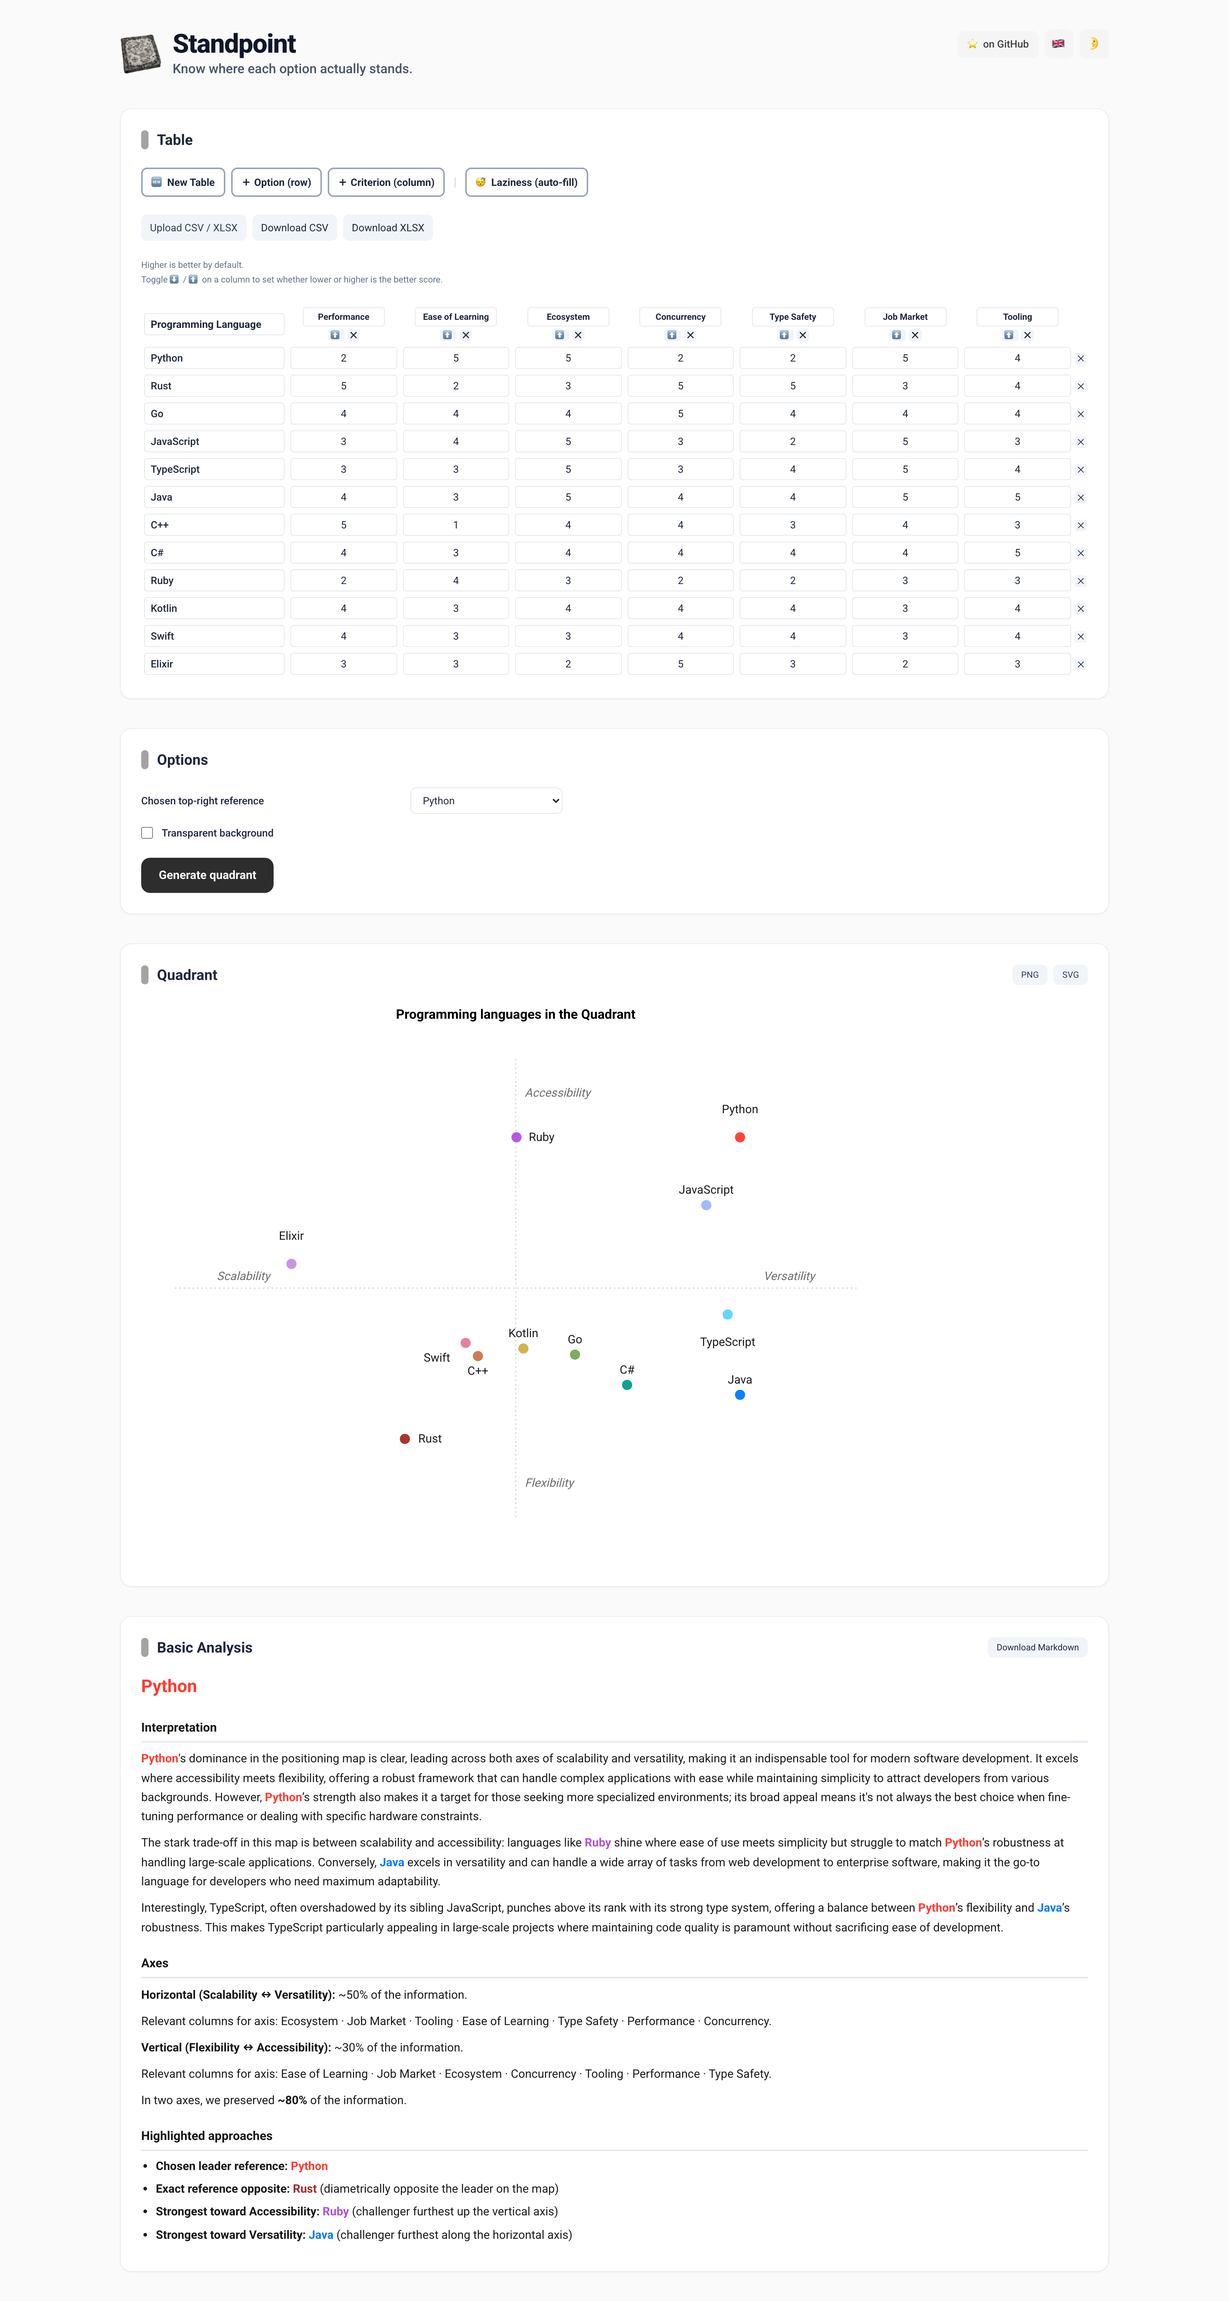
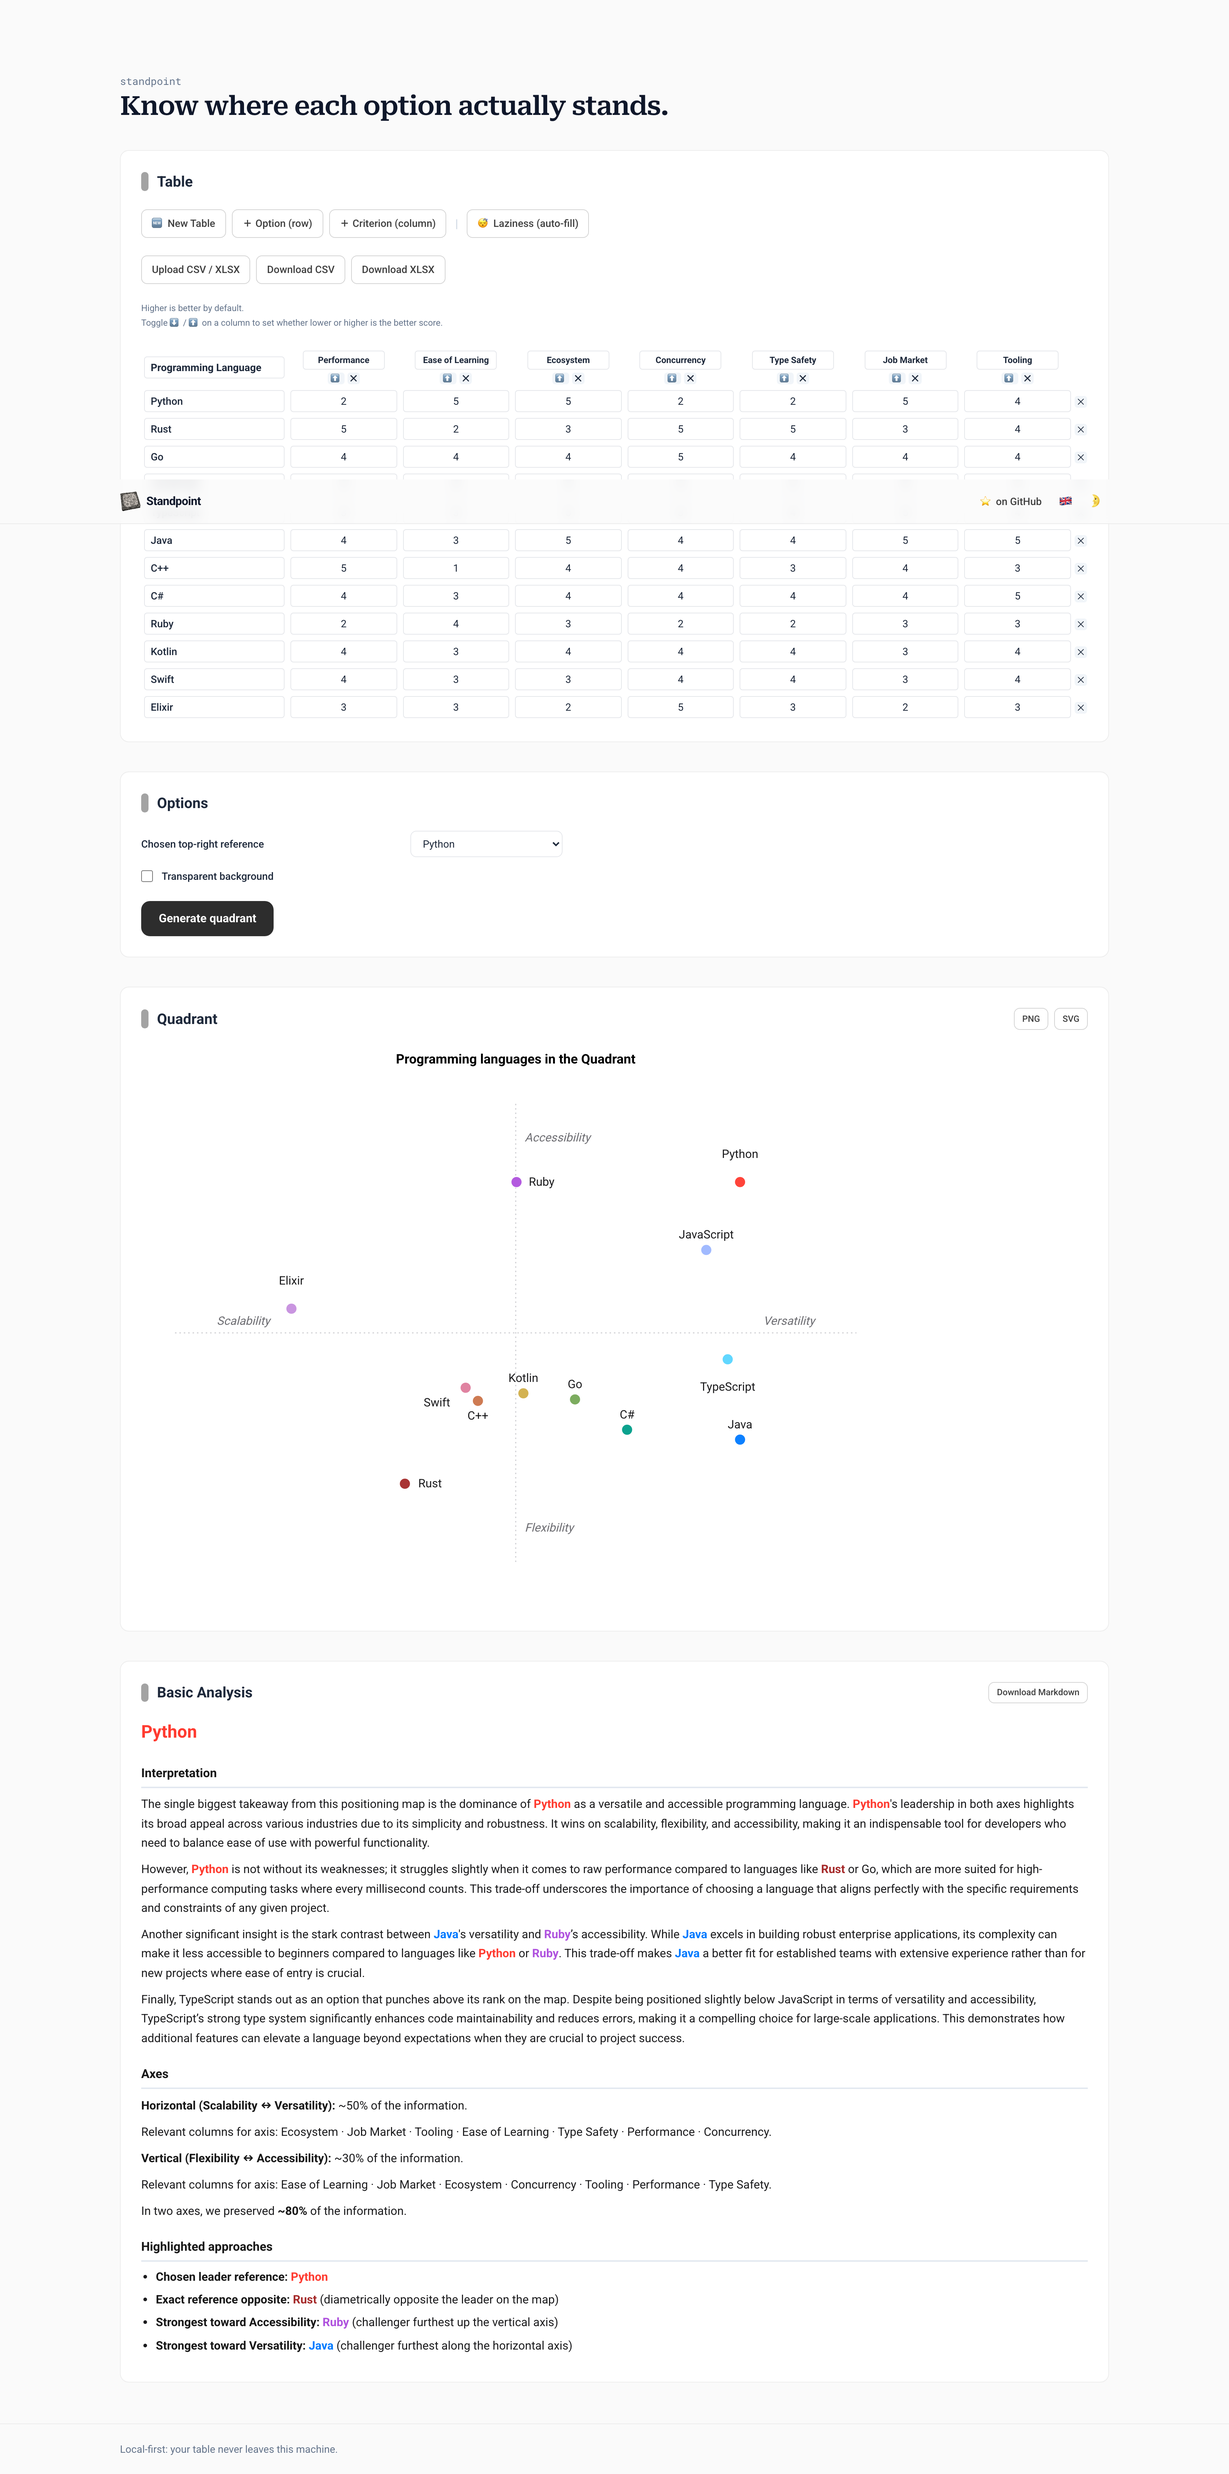
GUI: match the sprezzature look and feel (nav, typography, cards, buttons)
Restyled the GUI on the design system at harchaoui.org/warith/sprezzature/figures.html:

- Sticky, translucent, blurred nav bar (site-header) replacing the static two-line
  header: logo + "Standpoint" wordmark on the left, GitHub star + language/theme pills
  on the right, all transparent until hovered (was a permanently-filled chip).
- Hero: a small monospace "eyebrow" tag ("standpoint") over a Roboto Serif display
  headline carrying the tagline, instead of repeating the brand name as a subtitle.
- Cards: rounded-xl with a hairline border and no shadow (was rounded-2xl + shadow-sm);
  in dark mode the fill sits at page-black (#0a0a0a) so the border alone separates a
  card from the page, matching sprezzature's figure cards exactly.
- Buttons: one unified outlined style (.btn / .btn-sm) for every secondary action
  (New Table, +Option, +Criterion, Laziness, Upload, Download CSV/XLSX/PNG/SVG/MD),
  replacing the mixed border-2/bg-slate-100 styles. The single primary CTA (Generate
  quadrant) stays a filled ink button for hierarchy.
- Minimal footer with a border-top divider and a local-first note (new `footer_note`
  i18n key, en/fr/es).
- Colour discipline preserved: every new hover/border state is neutral gray, never the
  brand blue (#007AFF), which stays reserved for the map's data (the right-pole role).

Verified visually in both themes and languages (sticky header confirmed pinned on
real scroll; the duplicate-header artefact only appears in full-page screenshots).
[…]

diff --git a/standpoint/webgui.py b/standpoint/webgui.py
@@ -47,6 +47,10 @@ GUI_HTML = r"""<!doctype html>
     }
     body { font-family: Roboto, system-ui, -apple-system, Helvetica, Arial, sans-serif;
            background: var(--paper); -webkit-font-smoothing: antialiased; }
+    /* Sprezzature look and feel (harchaoui.org/warith/sprezzature): a serif display
+       headline over sans body copy, and a small monospace "eyebrow" tag above it. */
+    .headline { font-family: "Roboto Serif", Georgia, serif; }
+    .eyebrow { font-family: "Roboto Mono", ui-monospace, SFMono-Regular, monospace; }
     /* Grid inputs sized to their content: numeric value cells fill their column
        (see the w-full inputs in renderGrid), while option (row) names and criterion
        (column) names get fixed room so nothing truncates and columns stay aligned. */
@@ -92,7 +96,10 @@ GUI_HTML = r"""<!doctype html>
        The DATA palette (role tints, map dots) is deliberately left untouched. */
     html.dark { color-scheme: dark; }
     .dark body { background:#0B0B0C; color:#d4d4d4; }
-    .dark .bg-white { background-color:#171717 !important; }
+    /* Cards sit at (almost) the same lightness as the page in dark mode, exactly like
+       sprezzature's figure cards: the border alone carries the separation, no lighter
+       "floating panel" fill. Light mode already works this way (white on --paper). */
+    .dark .bg-white { background-color:#0a0a0a !important; }
     .dark .card { border-color:#262626 !important; }
     .dark .text-slate-900 { color:#f5f5f5 !important; }
     .dark .text-slate-800 { color:#e5e5e5 !important; }
@@ -111,50 +118,79 @@ GUI_HTML = r"""<!doctype html>
     .dark .analysis { color:#d4d4d4; }
     .dark .analysis h1, .dark .analysis h2, .dark .analysis strong { color:#f5f5f5; }
     .dark .analysis h2 { border-color:#262626; }
-    /* Subtle card border, sprezzature style (neutral-200/70 in light). */
+    /* Subtle card border, sprezzature style (neutral-200/70 in light); no shadow, the
+       border alone separates a card from the page (dark variant set above). */
     .card { border:1px solid rgba(229,229,229,.7); }
-    /* Header toggle buttons: neutral, square, keyboard-focusable chrome. */
-    .toggle-btn { font-size:1.15rem; line-height:1; width:2.5rem; height:2.5rem;
-      display:flex; align-items:center; justify-content:center; border-radius:.6rem;
-      background:#f5f5f5; transition:background-color .15s; }
-    .toggle-btn:hover { background:#e5e5e5; }
-    .dark .toggle-btn { background:#262626; }
-    .dark .toggle-btn:hover { background:#404040; }
-    /* GitHub star link, echoing the sprezzature nav pill. */
+    /* Header toggle buttons: transparent pills, sprezzature nav style (their lang/theme
+       buttons carry no background until hovered, unlike a permanently-filled chip). */
+    .toggle-btn { font-size:1.15rem; line-height:1; width:2.25rem; height:2.25rem;
+      display:flex; align-items:center; justify-content:center; border-radius:9999px;
+      background:transparent; transition:background-color .15s; }
+    .toggle-btn:hover { background:#f5f5f5; }
+    .dark .toggle-btn:hover { background:#262626; }
+    /* GitHub star link, echoing the sprezzature nav pill: transparent, hover fill. */
     .gh-link { display:inline-flex; align-items:center; gap:.35rem; font-size:.875rem;
-      font-weight:500; padding:.5rem .85rem; border-radius:.6rem; background:#f5f5f5;
+      font-weight:500; padding:.4rem .75rem; border-radius:9999px; background:transparent;
       color:#404040; white-space:nowrap; transition:background-color .15s; }
-    .gh-link:hover { background:#e5e5e5; }
-    .dark .gh-link { background:#262626; color:#d4d4d4; }
-    .dark .gh-link:hover { background:#404040; }
+    .gh-link:hover { background:#f5f5f5; }
+    .dark .gh-link { color:#d4d4d4; }
+    .dark .gh-link:hover { background:#262626; }
+    /* Sticky, translucent, blurred nav bar: full-width band with an inner max-width
+       container, exactly the sprezzature header treatment. */
+    .site-header { position:sticky; top:0; z-index:40; -webkit-backdrop-filter:blur(8px);
+      backdrop-filter:blur(8px); background:rgba(250,250,250,.8);
+      border-bottom:1px solid rgba(229,229,229,.7); }
+    .dark .site-header { background:rgba(11,11,12,.8); border-bottom-color:#262626; }
+    .site-footer { border-top:1px solid rgba(229,229,229,.7); }
+    .dark .site-footer { border-top-color:#262626; }
+    /* Secondary (outlined) buttons: one visual language for every non-primary action,
+       thin border, neutral hover. Never the data-blue accent (chrome stays neutral so a
+       colour in this app always means "data"; see the palette comment above). */
+    .btn { display:inline-flex; align-items:center; gap:.35rem; border-radius:.5rem;
+      border:1px solid #d4d4d4; background:#ffffff; color:#404040; font-weight:500;
+      padding:.5rem .85rem; font-size:.875rem; white-space:nowrap;
+      transition:border-color .15s, background-color .15s; }
+    .btn:hover { border-color:#a3a3a3; background:#fafafa; }
+    .dark .btn { border-color:#404040; background:transparent; color:#d4d4d4; }
+    .dark .btn:hover { border-color:#737373; background:#171717; }
+    .btn-sm { padding:.3rem .65rem; font-size:.75rem; }
   </style>
 </head>
 <body class="text-slate-800">
-  <div class="max-w-[1400px] mx-auto px-4 sm:px-6 py-6 sm:py-10 space-y-8 sm:space-y-10">
-
-    <header class="flex items-start justify-between gap-4 flex-wrap">
-      <div class="flex items-center gap-4">
+  <!-- Sticky, translucent nav bar (sprezzature style): full-width band, thin, with the
+       brand mark on the left and the language / theme toggles on the right. The page
+       title and tagline live in the hero below, not here, so the bar stays slim. -->
+  <header class="site-header">
+    <nav class="max-w-[1400px] mx-auto px-4 sm:px-6 py-3 flex items-center justify-between gap-4" aria-label="Primary">
+      <div class="flex items-center gap-2">
         <!-- The logo is the product metaphor: an old chart where every place has its
              position. It is chrome, not data, so it carries no palette meaning. -->
         <img src="/static/logo-header.png" alt="Standpoint logo: an old map with a compass rose"
-             width="56" height="56" class="w-12 h-12 sm:w-14 sm:h-14 shrink-0" />
-        <div>
-          <h1 class="text-3xl sm:text-4xl font-extrabold tracking-tight text-slate-900">Standpoint</h1>
-          <p class="text-base sm:text-lg text-slate-600 font-medium" data-i18n="baseline">Know where each option actually stands.</p>
-        </div>
+             width="28" height="28" class="w-7 h-7 rounded shrink-0" />
+        <span class="font-semibold tracking-tight text-slate-900">Standpoint</span>
       </div>
       <!-- Language (🇫🇷/🇬🇧) and theme (🌞/🌛) toggles. Both persist in localStorage;
            the language one re-localizes the whole page, including the LLM output. -->
-      <div class="flex items-center gap-2 ml-auto">
+      <div class="flex items-center gap-1">
         <a id="ghLink" class="gh-link" href="https://github.com/warith-harchaoui/standpoint"
            target="_blank" rel="noopener" data-i18n="github">⭐ on GitHub</a>
         <button id="langToggle" class="toggle-btn" type="button" data-i18n-aria="lang_aria" aria-label="Switch language">🇬🇧</button>
         <button id="themeToggle" class="toggle-btn" type="button" data-i18n-aria="theme_light_aria" aria-label="Switch theme">🌛</button>
       </div>
-    </header>
+    </nav>
+  </header>
+
+  <div class="max-w-[1400px] mx-auto px-4 sm:px-6 py-6 sm:py-10 space-y-8 sm:space-y-10">
+
+    <!-- Hero: a small monospace "eyebrow" tag over a serif display headline, sprezzature
+         style (their eyebrow carries the page/skill slug; ours carries the product's). -->
+    <div>
+      <p class="eyebrow text-sm text-slate-500">standpoint</p>
+      <h1 class="headline mt-1 text-3xl sm:text-4xl font-bold tracking-tight text-slate-900" data-i18n="baseline">Know where each option actually stands.</h1>
+    </div>
 
     <!-- 1 · Your table -->
-    <section class="card bg-white rounded-2xl shadow-sm p-5 sm:p-7 space-y-6">
+    <section class="card bg-white rounded-xl p-5 sm:p-7 space-y-6">
       <div class="flex items-center gap-3">
         <span class="accent"></span>
         <h2 class="text-xl font-semibold" data-i18n="table_title">Table</h2>
@@ -162,22 +198,22 @@ GUI_HTML = r"""<!doctype html>
 
       <div class="flex items-center gap-2 flex-wrap">
         <!-- Start from an empty grid; then build it up row by row and column by column. -->
-        <button id="newTable" class="px-3 py-2 rounded-lg text-sm font-semibold border-2 border-slate-400 text-slate-800 bg-white hover:bg-slate-100" data-i18n="new_table">🆕 New Table</button>
-        <button id="addRow" class="px-3 py-2 rounded-lg text-sm font-semibold border-2 border-slate-400 text-slate-800 bg-white hover:bg-slate-100" data-i18n="add_row">＋ Option (row)</button>
-        <button id="addCol" class="px-3 py-2 rounded-lg text-sm font-semibold border-2 border-slate-400 text-slate-800 bg-white hover:bg-slate-100" data-i18n="add_col">＋ Criterion (column)</button>
+        <button id="newTable" class="btn" data-i18n="new_table">🆕 New Table</button>
+        <button id="addRow" class="btn" data-i18n="add_row">＋ Option (row)</button>
+        <button id="addCol" class="btn" data-i18n="add_col">＋ Criterion (column)</button>
         <span class="mx-1 text-slate-300 hidden sm:inline">|</span>
         <!-- "Laziness / Paresse": fill every empty cell from the model's knowledge once
              the row and column names are typed (common for a headers-only upload). -->
-        <button id="flemme" class="px-3 py-2 rounded-lg text-sm font-semibold border-2 border-slate-400 text-slate-800 bg-white hover:bg-slate-100" data-i18n="flemme" data-i18n-aria="flemme_aria">😴 Laziness (auto-fill)</button>
+        <button id="flemme" class="btn" data-i18n="flemme" data-i18n-aria="flemme_aria">😴 Laziness (auto-fill)</button>
       </div>
       <!-- File actions (import / export) on their own line, separate from grid-editing. -->
       <div class="flex items-center gap-2 flex-wrap">
-        <label class="px-3 py-2 rounded-lg text-sm cursor-pointer bg-slate-100 hover:bg-slate-200 text-slate-700">
+        <label class="btn cursor-pointer">
           <span data-i18n="upload">Upload CSV / XLSX</span>
           <input id="upload" type="file" accept=".csv,.xlsx,.xls,.md,.txt" class="hidden" />
         </label>
-        <button id="dlCsv" class="px-3 py-2 rounded-lg bg-slate-100 hover:bg-slate-200 text-sm" data-i18n="download_csv">Download CSV</button>
-        <button id="dlXlsx" class="px-3 py-2 rounded-lg bg-slate-100 hover:bg-slate-200 text-sm" data-i18n="download_xlsx">Download XLSX</button>
+        <button id="dlCsv" class="btn" data-i18n="download_csv">Download CSV</button>
+        <button id="dlXlsx" class="btn" data-i18n="download_xlsx">Download XLSX</button>
       </div>
       <p class="text-xs text-slate-500 leading-relaxed">
         <span data-i18n="hint_higher">Higher is better by default.</span><br>
@@ -190,7 +226,7 @@ GUI_HTML = r"""<!doctype html>
     </section>
 
     <!-- 2 · Options -->
-    <section class="card bg-white rounded-2xl shadow-sm p-5 sm:p-7 space-y-6">
+    <section class="card bg-white rounded-xl p-5 sm:p-7 space-y-6">
       <div class="flex items-center gap-3">
         <span class="accent"></span>
         <h2 class="text-xl font-semibold" data-i18n="options_title">Options</h2>
@@ -216,15 +252,15 @@ GUI_HTML = r"""<!doctype html>
     <p id="error" role="alert" aria-live="assertive" class="text-sm font-medium hidden" style="color:#FF3B30"></p>
 
     <!-- 3 · Quadrant -->
-    <section class="card bg-white rounded-2xl shadow-sm p-5 sm:p-7 space-y-5">
+    <section class="card bg-white rounded-xl p-5 sm:p-7 space-y-5">
       <div class="flex items-center justify-between">
         <div class="flex items-center gap-3">
           <span class="accent"></span>
           <h2 class="text-xl font-semibold" data-i18n="quadrant_title">Quadrant</h2>
         </div>
         <div class="flex gap-2">
-          <button id="dlPng" class="text-xs px-3 py-1.5 rounded-lg hidden bg-slate-100 hover:bg-slate-200 text-slate-700">PNG</button>
-          <button id="dlSvg" class="text-xs px-3 py-1.5 rounded-lg hidden bg-slate-100 hover:bg-slate-200 text-slate-700">SVG</button>
+          <button id="dlPng" class="btn btn-sm hidden">PNG</button>
+          <button id="dlSvg" class="btn btn-sm hidden">SVG</button>
         </div>
       </div>
       <div id="chart" class="min-h-[420px] flex items-center justify-center overflow-x-auto text-slate-400" data-i18n="chart_placeholder">
@@ -233,19 +269,27 @@ GUI_HTML = r"""<!doctype html>
     </section>
 
     <!-- Analysis -->
-    <section class="card bg-white rounded-2xl shadow-sm p-5 sm:p-7 space-y-5">
+    <section class="card bg-white rounded-xl p-5 sm:p-7 space-y-5">
       <div class="flex items-center justify-between">
         <div class="flex items-center gap-3">
           <span class="accent"></span>
           <h2 class="text-xl font-semibold" data-i18n="analysis_title">Basic Analysis</h2>
         </div>
-        <button id="dlMd" class="text-xs px-3 py-1.5 rounded-lg bg-slate-100 hover:bg-slate-200 hidden" data-i18n="download_md">Download Markdown</button>
+        <button id="dlMd" class="btn btn-sm hidden" data-i18n="download_md">Download Markdown</button>
       </div>
       <div id="comments" class="analysis max-w-none text-slate-400" data-i18n="analysis_placeholder">
         The written interpretation appears here once you generate.
       </div>
     </section>
   </div>
+
+  <!-- Minimal footer, sprezzature style: a full-width band with a border-top divider
+       and one muted line, echoing the local-first pitch from the hero. -->
+  <footer class="site-footer mt-4">
+    <div class="max-w-[1400px] mx-auto px-4 sm:px-6 py-6 text-sm text-slate-500" data-i18n="footer_note">
+      Local-first: your table never leaves this machine.
+    </div>
+  </footer>
 
 <script>
 // --- tiny state: header cells, lower-is-better flags, and data rows -----------

diff --git a/CHANGELOG.md b/CHANGELOG.md
@@ -7,6 +7,17 @@ and this project adheres to [Semantic Versioning](https://semver.org/spec/v2.0.0
 
 ## [Unreleased]
 
+### Changed
+
+- **GUI look and feel**, matched to the [sprezzature](https://harchaoui.org/warith/sprezzature/figures.html)
+  design system: a sticky, translucent, blurred nav bar (logo + wordmark, GitHub star
+  and language/theme pills); a monospace "eyebrow" tag over a serif display headline;
+  bordered cards with no shadow (in dark mode the card fill sits at page-black, the
+  border alone separates it); one unified outlined-button style for every secondary
+  action; and a minimal footer with a border-top divider. The data palette (map dots,
+  role-tinted names) and the "chrome stays neutral" rule are unchanged; hover states use
+  neutral grays, never the brand blue, which stays reserved for the map's right pole.
+
 ## [0.5.0] - 2026-08-01
 
 ### Added
